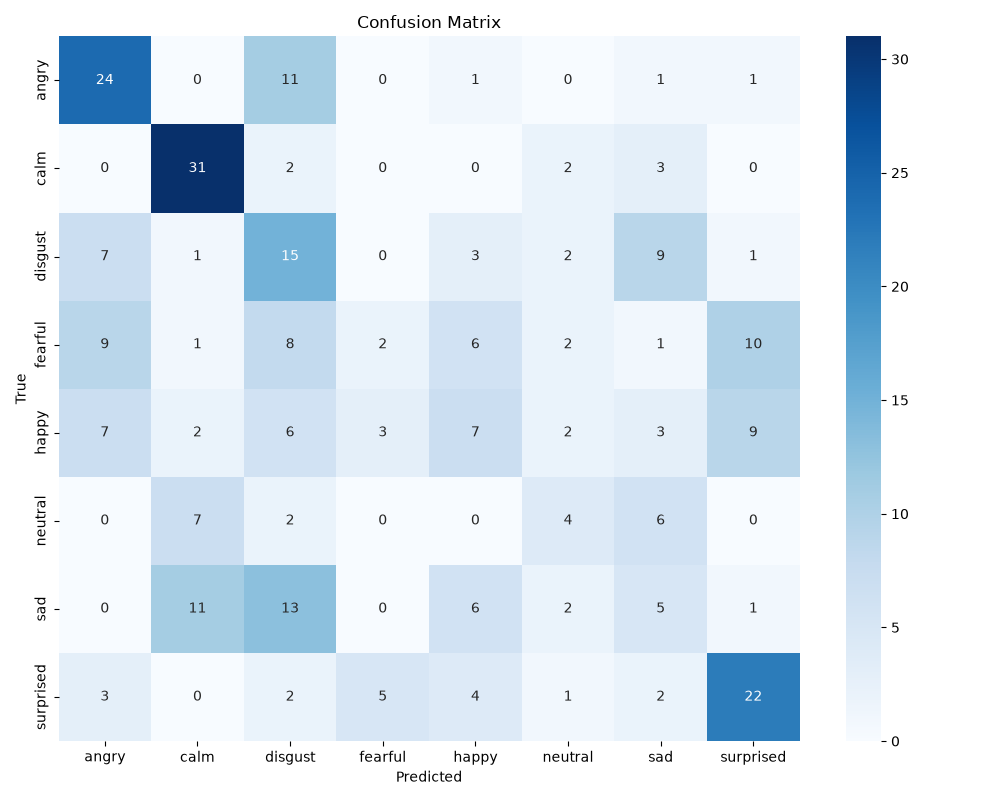
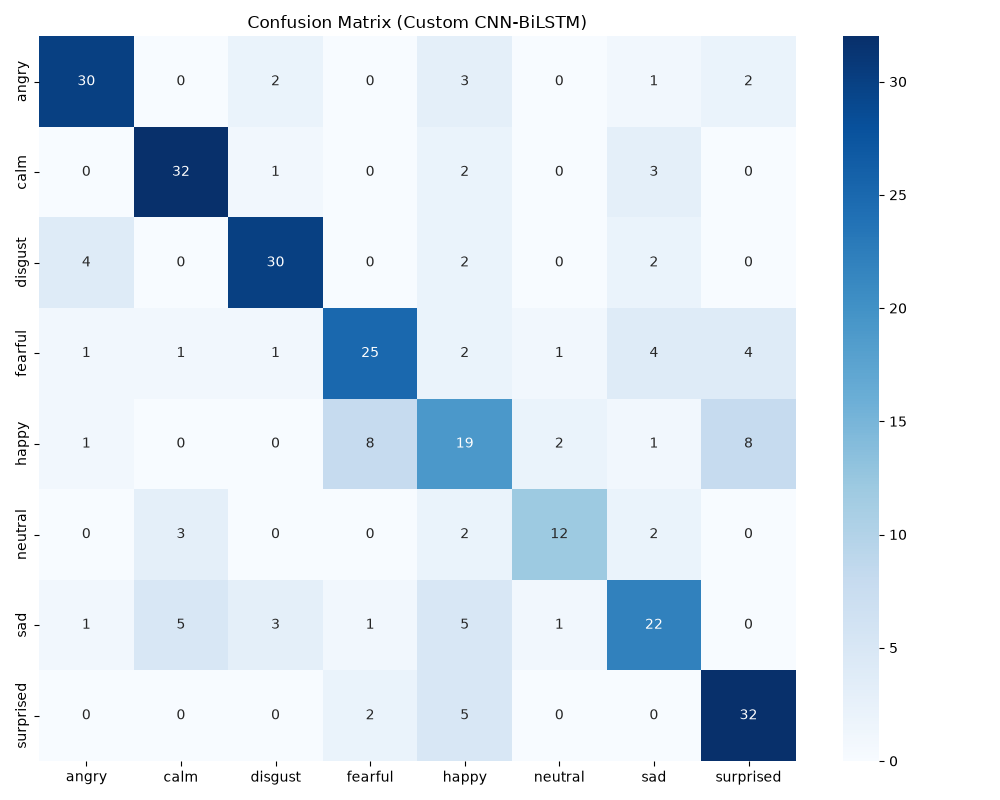
Final model with 70% accuracy and Streamlit demo

diff --git a/train_emotion.py b/train_emotion.py
@@ -5,18 +5,21 @@ from sklearn.model_selection import train_test_split
 from sklearn.preprocessing import LabelEncoder
 from tensorflow.keras.utils import to_categorical
 from tensorflow.keras.models import Sequential
-from tensorflow.keras.layers import Conv1D, MaxPooling1D, LSTM, Dense, Dropout
-from tensorflow.keras.callbacks import EarlyStopping
+from tensorflow.keras.layers import (
+    Conv1D, MaxPooling1D, Bidirectional, LSTM,
+    Dropout, Dense, BatchNormalization
+)
+from tensorflow.keras.callbacks import EarlyStopping, ReduceLROnPlateau
 from sklearn.metrics import classification_report, confusion_matrix
 import matplotlib.pyplot as plt
 import seaborn as sns
 import joblib
 
 # ========== CONFIG ==========
-DATASET_PATH = 'data'
+DATASET_PATH = 'data'          # Actor folders inside data/
 SAMPLE_RATE = 22050
-N_MFCC = 40
-MAX_PAD_LEN = 174   # enough for ~4 sec audio
+N_MFCC = 60                    # more coefficients
+MAX_PAD_LEN = 200              # enough for augmented audio
 
 EMOTION_MAP = {
     '01': 'neutral', '02': 'calm', '03': 'happy', '04': 'sad',
@@ -24,22 +27,43 @@ EMOTION_MAP = {
 }
 
 # ========== FEATURE EXTRACTION ==========
-def extract_features(file_path):
+def extract_features(file_path, augment=False):
     try:
         audio, sr = librosa.load(file_path, sr=SAMPLE_RATE)
+
+        # Data augmentation (only for training)
+        if augment:
+            # Random noise
+            noise = 0.005 * np.random.randn(len(audio))
+            audio = audio + noise
+            # Time stretching (90–110%)
+            rate = np.random.uniform(0.9, 1.1)
+            audio = librosa.effects.time_stretch(y=audio, rate=rate)
+            # Pitch shifting (±2 semitones)
+            n_steps = np.random.randint(-2, 3)
+            audio = librosa.effects.pitch_shift(y=audio, sr=sr, n_steps=n_steps)
+
+        # Extract MFCCs + delta + delta-delta
         mfcc = librosa.feature.mfcc(y=audio, sr=sr, n_mfcc=N_MFCC)
-        if mfcc.shape[1] < MAX_PAD_LEN:
-            pad_width = MAX_PAD_LEN - mfcc.shape[1]
-            mfcc = np.pad(mfcc, pad_width=((0, 0), (0, pad_width)), mode='constant')
+        delta = librosa.feature.delta(mfcc)
+        delta2 = librosa.feature.delta(mfcc, order=2)
+        features = np.vstack([mfcc, delta, delta2])   # (180, time)
+
+        # Pad/truncate to fixed length
+        if features.shape[1] < MAX_PAD_LEN:
+            pad_width = MAX_PAD_LEN - features.shape[1]
+            features = np.pad(features, pad_width=((0, 0), (0, pad_width)), mode='constant')
         else:
-            mfcc = mfcc[:, :MAX_PAD_LEN]
-        return mfcc
+            features = features[:, :MAX_PAD_LEN]
+
+        return features
     except Exception as e:
         print(f"Error loading {file_path}: {e}")
         return None
 
+# ========== LOAD ORIGINAL DATA ==========
 features, labels = [], []
-print("Extracting features...")
+print("Extracting features (no augmentation)...")
 for actor_folder in os.listdir(DATASET_PATH):
     actor_path = os.path.join(DATASET_PATH, actor_folder)
     if not os.path.isdir(actor_path):
@@ -55,67 +79,98 @@ for actor_folder in os.listdir(DATASET_PATH):
         if not emotion:
             continue
         file_path = os.path.join(actor_path, file)
-        mfcc = extract_features(file_path)
-        if mfcc is not None:
-            features.append(mfcc)
+        feat = extract_features(file_path, augment=False)
+        if feat is not None:
+            features.append(feat)
             labels.append(emotion)
 
 X = np.array(features)
 y = np.array(labels)
 print(f"Loaded {len(X)} samples. Shape: {X.shape}")
 
+# Encode labels
 le = LabelEncoder()
 y_encoded = le.fit_transform(y)
 y_cat = to_categorical(y_encoded)
 joblib.dump(le, 'label_encoder.pkl')
 np.save('classes.npy', le.classes_)
 
+# Split (stratified, 80-20)
 X_train, X_test, y_train, y_test = train_test_split(
     X, y_cat, test_size=0.2, random_state=42, stratify=y_encoded)
 
-X_train = X_train.transpose(0, 2, 1)
+# ========== DATA AUGMENTATION (only on training set) ==========
+print("Augmenting training set...")
+X_train_aug, y_train_aug = [], []
+for i in range(len(X_train)):
+    # Original
+    X_train_aug.append(X_train[i])
+    y_train_aug.append(y_train[i])
+    # Augmented version (since we stored features, we add noise to features)
+    noise = 0.01 * np.random.randn(*X_train[i].shape)
+    X_train_aug.append(X_train[i] + noise)
+    y_train_aug.append(y_train[i])
+
+X_train = np.array(X_train_aug)
+y_train = np.array(y_train_aug)
+print(f"Training set size after augmentation: {len(X_train)}")
+
+# Transpose for Conv1D: (samples, time_steps, features)
+X_train = X_train.transpose(0, 2, 1)   # (samples, MAX_PAD_LEN, 180)
 X_test  = X_test.transpose(0, 2, 1)
 
+# ========== MODEL ==========
 model = Sequential([
-    Conv1D(64, kernel_size=5, activation='relu', input_shape=(MAX_PAD_LEN, N_MFCC)),
+    Conv1D(128, kernel_size=5, activation='relu', input_shape=(MAX_PAD_LEN, N_MFCC*3)),
+    BatchNormalization(),
     MaxPooling1D(pool_size=2),
-    Conv1D(128, kernel_size=3, activation='relu'),
+    Conv1D(256, kernel_size=3, activation='relu'),
+    BatchNormalization(),
     MaxPooling1D(pool_size=2),
-    LSTM(128, return_sequences=False),
+    Bidirectional(LSTM(256, return_sequences=True)),
     Dropout(0.5),
-    Dense(64, activation='relu'),
+    Bidirectional(LSTM(128, return_sequences=False)),
+    Dropout(0.5),
+    Dense(128, activation='relu'),
+    BatchNormalization(),
     Dense(y_train.shape[1], activation='softmax')
 ])
+
 model.compile(optimizer='adam', loss='categorical_crossentropy', metrics=['accuracy'])
 model.summary()
 
-early_stop = EarlyStopping(monitor='val_loss', patience=10, restore_best_weights=True)
+# Callbacks
+early_stop = EarlyStopping(monitor='val_loss', patience=15, restore_best_weights=True)
+reduce_lr = ReduceLROnPlateau(monitor='val_loss', factor=0.5, patience=5, min_lr=1e-6)
+
+# ========== TRAINING ==========
 history = model.fit(
     X_train, y_train,
     validation_data=(X_test, y_test),
-    epochs=60, batch_size=32,
-    callbacks=[early_stop],
+    epochs=100, batch_size=32,
+    callbacks=[early_stop, reduce_lr],
     verbose=1
 )
 
+# ========== EVALUATION ==========
 y_pred_probs = model.predict(X_test)
 y_pred = np.argmax(y_pred_probs, axis=1)
 y_true = np.argmax(y_test, axis=1)
 
 print("\nClassification Report:")
-print(classification_report(y_true, y_pred, target_names=le.classes_))
+print(classification_report(y_true, y_pred, target_names=le.classes_, digits=3))
 
+# Confusion matrix
 cm = confusion_matrix(y_true, y_pred)
 plt.figure(figsize=(10,8))
 sns.heatmap(cm, annot=True, fmt='d', cmap='Blues',
-            xticklabels=le.classes_, yticklabels=le.classes_)
-plt.title('Confusion Matrix')
-plt.xlabel('Predicted')
-plt.ylabel('True')
+            xticklabels=le.classes_.tolist(), yticklabels=le.classes_.tolist())
+plt.title('Confusion Matrix (Custom CNN‑BiLSTM)')
 plt.tight_layout()
 plt.savefig('confusion_matrix.png')
 plt.show()
 
+# Training curves
 plt.figure(figsize=(12,4))
 plt.subplot(1,2,1)
 plt.plot(history.history['accuracy'], label='Train Acc')
@@ -131,5 +186,6 @@ plt.tight_layout()
 plt.savefig('training_history.png')
 plt.show()
 
+# Save model
 model.save('emotion_model.h5')
 print("Model saved as emotion_model.h5")

diff --git a/app.py b/app.py
@@ -4,22 +4,37 @@ import numpy as np
 from tensorflow.keras.models import load_model
 import joblib
 
+# ========== CONFIG (must match training) ==========
+SAMPLE_RATE = 22050
+N_MFCC = 60
+MAX_PAD_LEN = 200
+
+# ========== LOAD MODEL & ENCODER ==========
 model = load_model('emotion_model.h5')
 le = joblib.load('label_encoder.pkl')
 
-N_MFCC = 40
-MAX_PAD_LEN = 174
-SAMPLE_RATE = 22050
-
 def extract_features(audio, sr):
+    """Extract MFCC + delta + delta2 and pad/truncate to MAX_PAD_LEN."""
+    # Extract MFCCs
     mfcc = librosa.feature.mfcc(y=audio, sr=sr, n_mfcc=N_MFCC)
-    if mfcc.shape[1] < MAX_PAD_LEN:
-        pad_width = MAX_PAD_LEN - mfcc.shape[1]
-        mfcc = np.pad(mfcc, pad_width=((0,0),(0,pad_width)), mode='constant')
-    else:
-        mfcc = mfcc[:, :MAX_PAD_LEN]
-    return mfcc
+    # Delta and delta-delta
+    delta = librosa.feature.delta(mfcc)
+    delta2 = librosa.feature.delta(mfcc, order=2)
+    # Stack vertically -> (180, time_frames)
+    features = np.vstack([mfcc, delta, delta2])
 
+    # Pad or truncate to fixed length (time axis)
+    if features.shape[1] < MAX_PAD_LEN:
+        pad_width = MAX_PAD_LEN - features.shape[1]
+        features = np.pad(features, pad_width=((0, 0), (0, pad_width)), mode='constant')
+    else:
+        features = features[:, :MAX_PAD_LEN]
+
+    # Transpose to (time_steps, features) for the model: (200, 180)
+    features = features.T
+    return features
+
+# ========== STREAMLIT UI ==========
 st.set_page_config(page_title="Emotion Recognition", layout="centered")
 st.title("🎤 Emotion Recognition from Speech")
 st.write("Upload a `.wav` file and the model will predict the emotion.")
@@ -27,11 +42,17 @@ st.write("Upload a `.wav` file and the model will predict the emotion.")
 uploaded_file = st.file_uploader("Choose a WAV file", type=['wav'])
 if uploaded_file is not None:
     st.audio(uploaded_file, format='audio/wav')
+
+    # Load and preprocess
     audio, sr = librosa.load(uploaded_file, sr=SAMPLE_RATE)
-    mfcc = extract_features(audio, sr)
-    mfcc_input = mfcc.T[np.newaxis, ...]   # (1, time_steps, features)
-    pred_probs = model.predict(mfcc_input)
+    features = extract_features(audio, sr)
+    # Add batch dimension
+    features = np.expand_dims(features, axis=0)   # shape (1, 200, 180)
+
+    # Predict
+    pred_probs = model.predict(features)
     pred_idx = np.argmax(pred_probs)
     emotion = le.inverse_transform([pred_idx])[0]
     confidence = np.max(pred_probs)
+
     st.success(f"**Predicted Emotion:** {emotion}  (confidence: {confidence:.2%})")